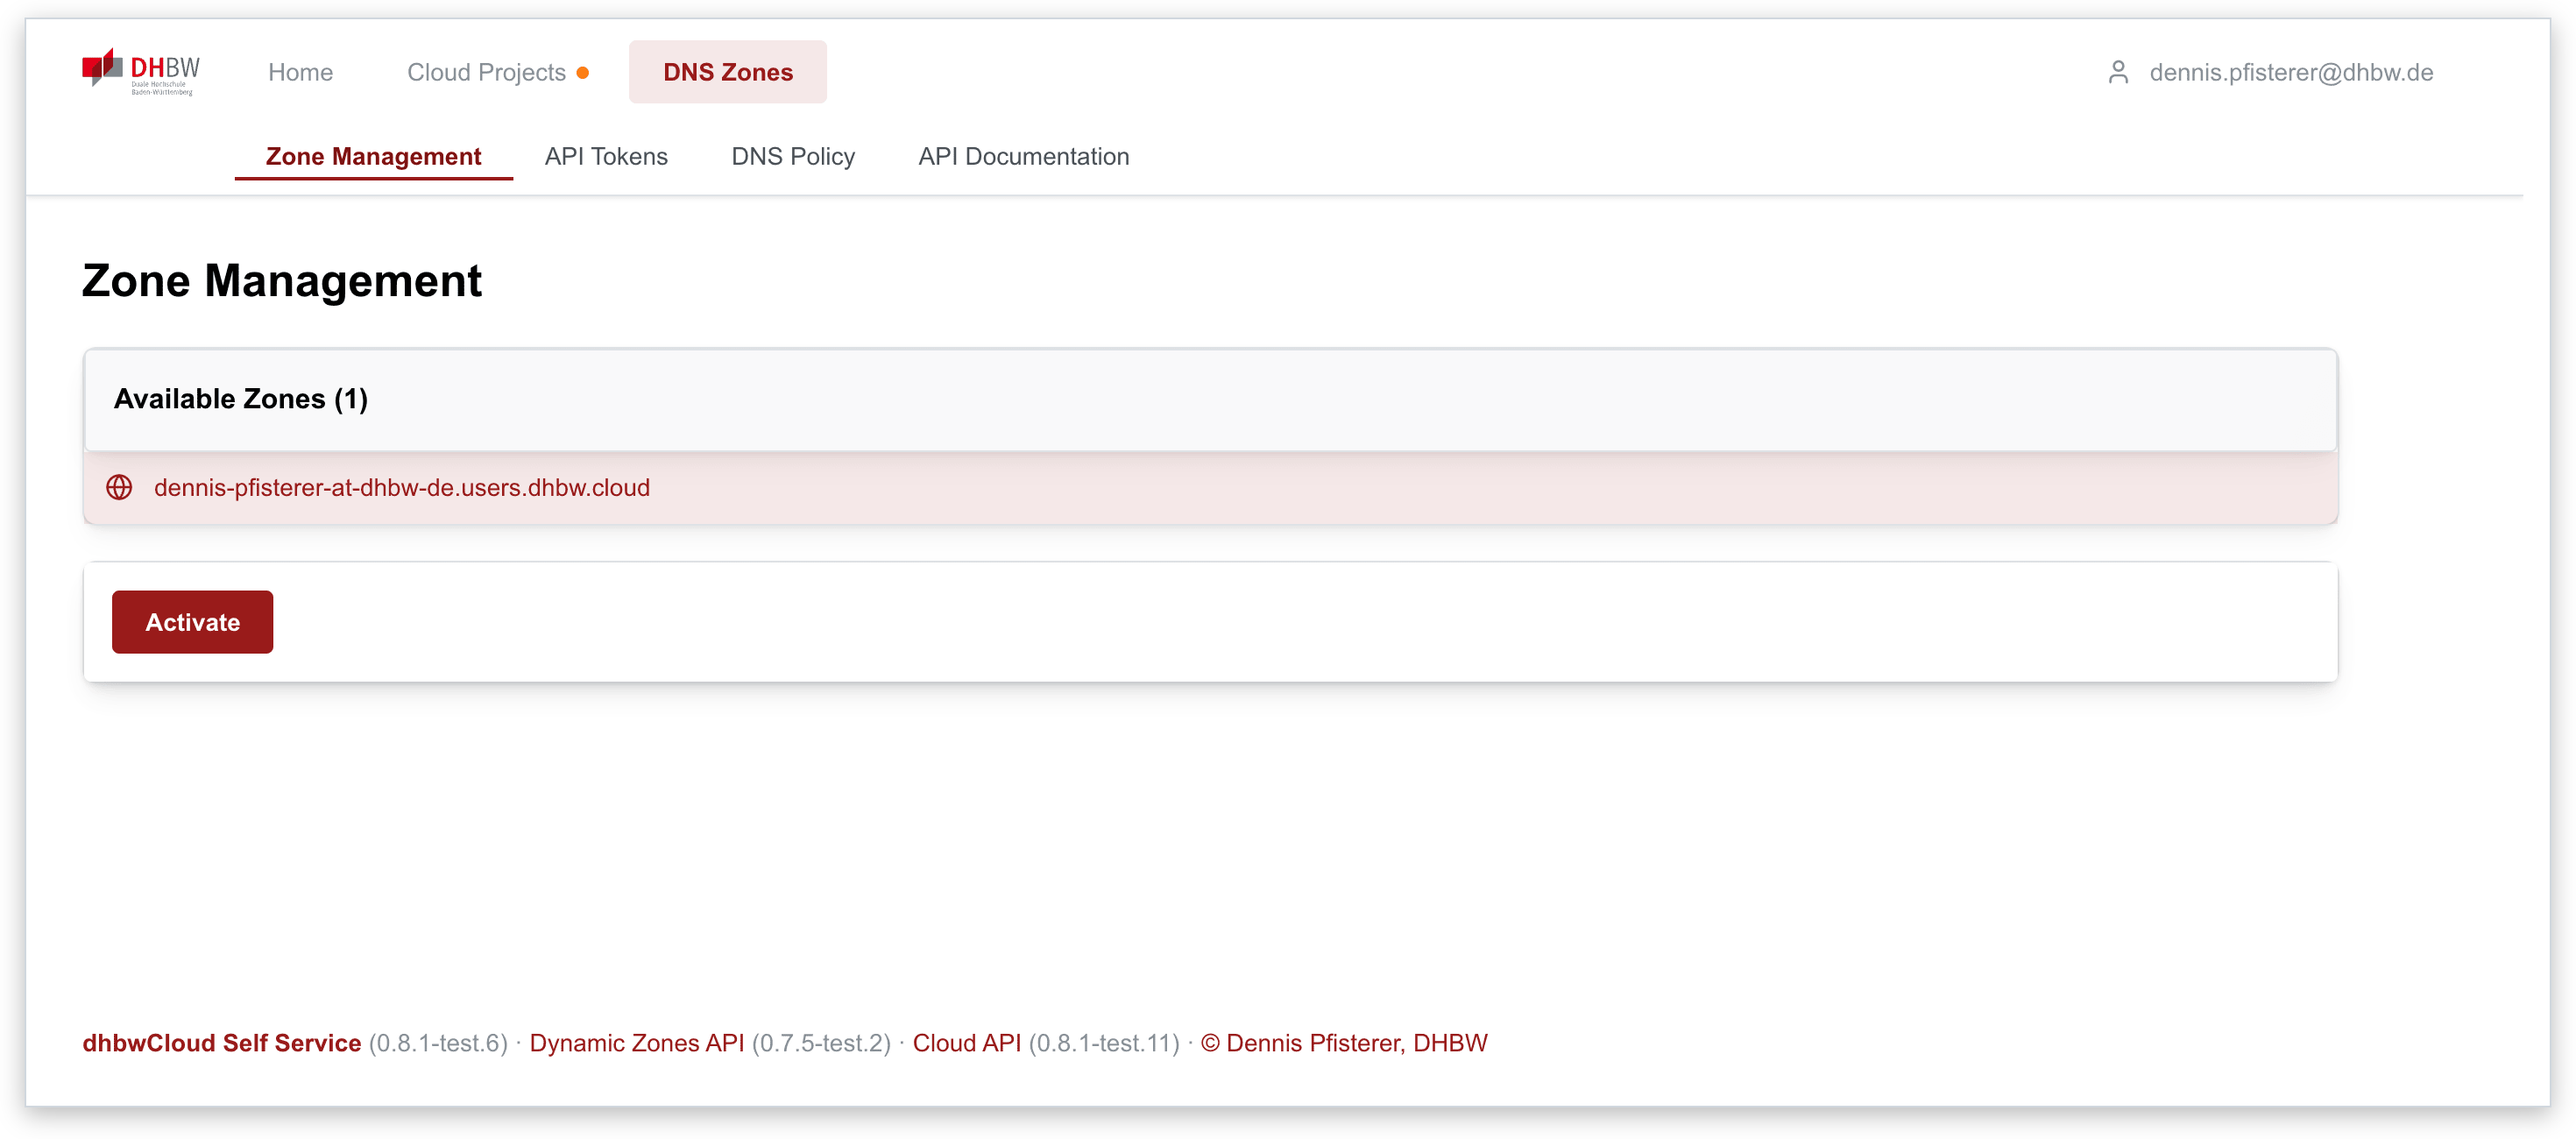
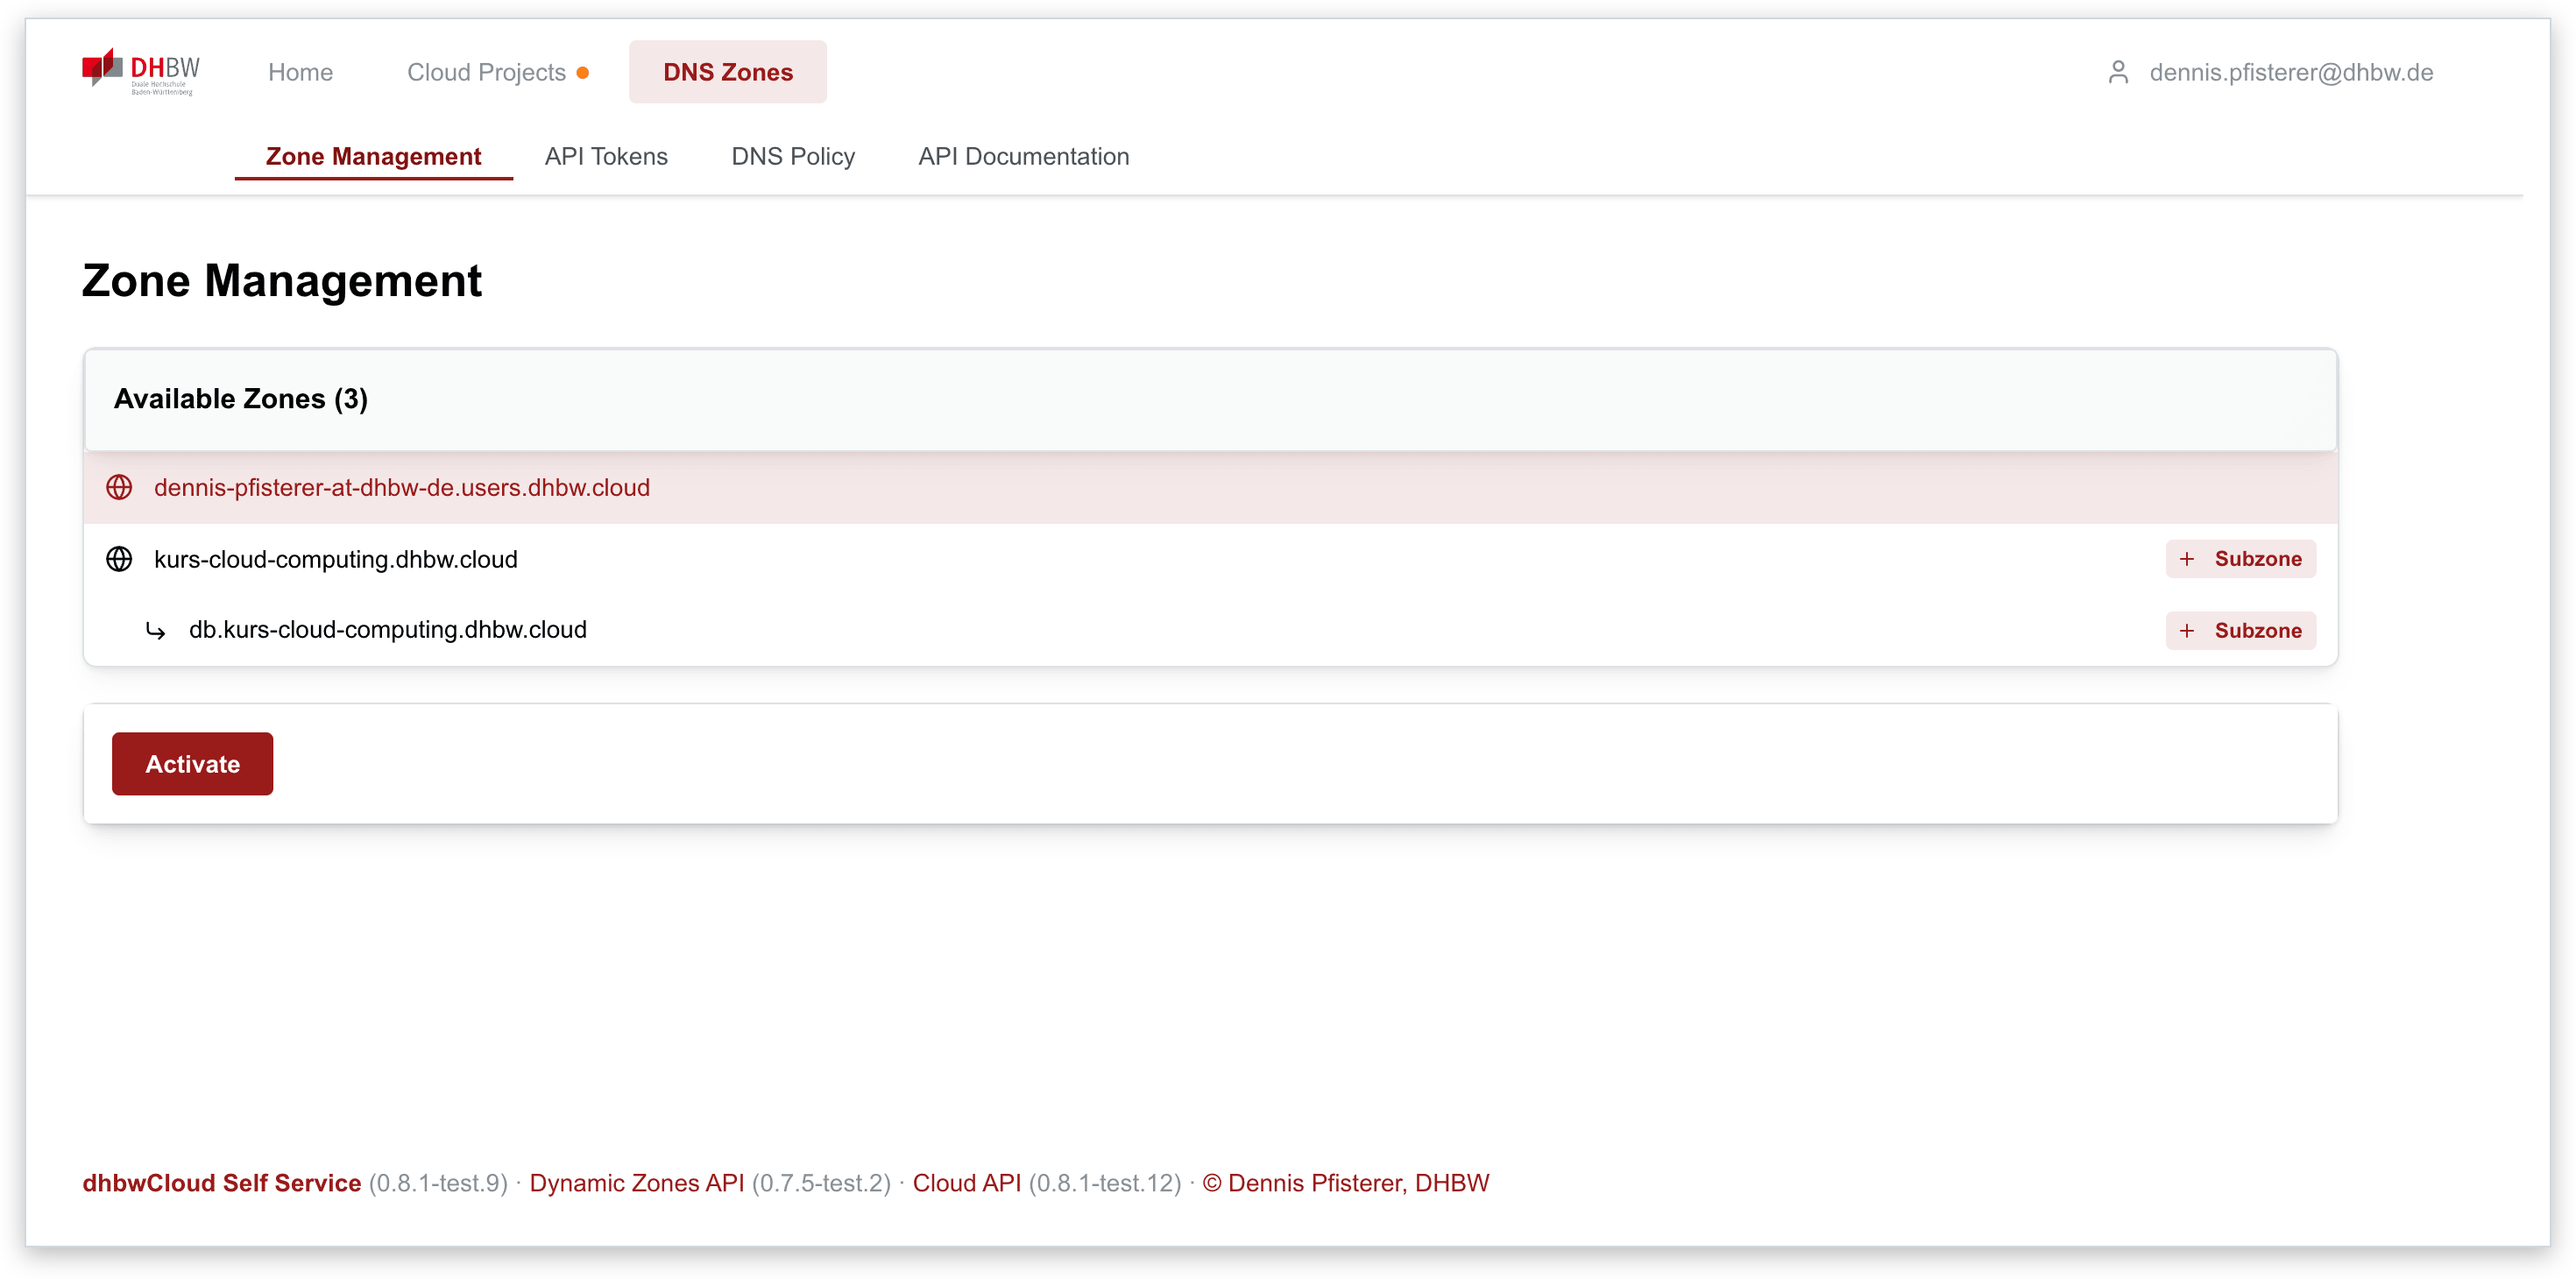
docs: show the DNS side properly — subzones, keys, dyndns, TLS
The screenshots covered the cloud half and left DNS at "here is a list of
zones", which is the least interesting page of that section: what makes it
self-service is what sits behind an activated zone.

Added: creating a subzone, the records of a live zone, the per-zone TSIG
keys, the ready-made nsupdate/ddclient configuration, and the certificate
snippets. Split into a Cloud Projects and a DNS Zones block, since ten
images in one run stopped being a sequence.

The zone TSIG secret is replaced in the DOM before each shot is taken —
documentation is a bad place to teach that secrets belong in screenshots,
even a throwaway one from a local stack.

diff --git a/README.md b/README.md
@@ -48,6 +48,8 @@ date via RFC 2136 without a human in the loop.
 
 ## Screenshots
 
+### Cloud Projects
+
 **My Projects** — a person's own projects: what they cost, and what can be done
 with them.
 
@@ -63,14 +65,48 @@ before deciding, and can grant a smaller amount instead of rejecting.
 
 ![Approving a request](docs/img/03-approve-impact.webp)
 
-**DNS Zones** — zones, records, and the keys that let machines update them.
-
-![DNS Zones](docs/img/04-dns-zones.webp)
-
 **Root Admin** — state of the OpenStack reconciliation, and the shell query for
 projects past their termination date.
 
 ![Root Admin](docs/img/05-root-admin.webp)
+
+### DNS Zones
+
+**Zone Management** — everything policy entitles this user to. A zone that has
+not been created yet offers *Activate*; an existing one can be opened, shared or
+extended by a subzone.
+
+![Zone Management](docs/img/04-dns-zones.webp)
+
+**Subzones** — where a rule permits it, a zone can be split further. The subzone
+becomes a delegated zone of its own, with its own key, and appears indented under
+its parent.
+
+![Creating a subzone](docs/img/06-subzones.webp)
+
+**Records** — the records of an active zone, edited inline. Changes go straight
+into the authoritative nameserver.
+
+![DNS records of an active zone](docs/img/07-zone-records.webp)
+
+**Keys** — the TSIG keys of this zone: shared secrets that authenticate changes to
+it, and to nothing else. They can be rotated, which reissues them for every owner.
+
+![TSIG keys](docs/img/08-zone-keys.webp)
+
+**Dynamic DNS** — ready-made `nsupdate` and `ddclient` configuration for keeping a
+host's address current, pre-filled with this zone's nameserver and key.
+
+![Dynamic DNS configuration](docs/img/09-zone-dyndns.webp)
+
+**TLS certificates** — the same key issues certificates over DNS-01, wildcards
+included. The page hands out working snippets for certbot, acme.sh and
+cert-manager.
+
+![TLS certificate configuration](docs/img/10-zone-tls.webp)
+
+<sub>Screenshots are taken against the development stack with example data. Key
+material shown in the DNS tabs is redacted.</sub>
 
 ## How it fits together
 
